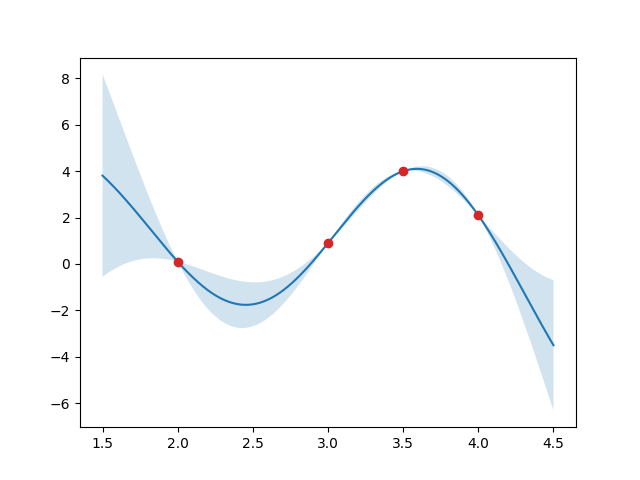
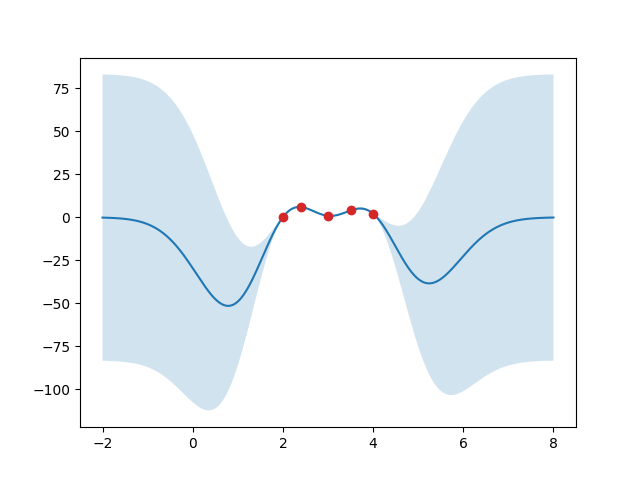
implement the EI and UCB algorithm class

diff --git a/optimization.py b/optimization.py
@@ -1,0 +1,121 @@
+#!/usr/bin/env python3
+
+import os
+import numpy as np
+from scipy.stats import norm
+from gp import ZeroGProcess
+
+
+class UpperConfidenceBound(ZeroGProcess):
+    """
+    class UpperConfidenceBound: 1. construct UCB auxillary function
+                                2. find maximum point of UCB auxillary function
+    """
+    def __init__(self):
+        super(UpperConfidenceBound, self).__init__()  # can use data from parent class
+
+    def aux_func(self, current_point, current_gamma=0.9):
+        """
+        auxillary function: a(x|D_t) = mean(x) + current_gamma * s2(x)
+        """
+        kernel_Cov_mat = self.compute_kernel_cov(self.X, self.theta)
+        kernel_Vec_mat = self.compute_kernel_vec(self.X, current_point, self.theta)
+        inv_kernel_Cov = np.linalg.inv(kernel_Cov_mat)
+
+        s2_currentA = np.matmul(np.transpose(kernel_Vec_mat), inv_kernel_Cov)
+        s2_currentB = np.matmul(s2_currentA, kernel_Vec_mat)
+        s2_current = self.kernel(current_point, current_point) - s2_currentB        
+
+        mean_current = self.compute_mean(current_point)
+        aux_ucb_current = mean_current + current_gamma*s2_current
+
+        return aux_ucb_current[0, 0]
+
+    def find_next_point(self):
+        "find maximum point based on auxillary function"
+        pass 
+
+
+class ExpectedImprovement(ZeroGProcess):
+    """
+    class ExpectedImprovement: 1. construct EI auxillary function 
+                               2. find maximum point of EI auxillary function
+    """
+    def __init__(self):  
+        super(ExpectedImprovement, self).__init__()    # can use data from parent class 
+
+    def aux_func(self, current_point, kessi=0.0, zeroCheck=1e-15):
+        """
+        auxillary function: a(x|D_t) = (y_max - mean(x) - kessi)*F(Z) + sqrt(sigma^2*s2(x))*f(Z)
+        Z = (y_max - mean(x) - kessi) / sqrt(sigma^2*s2(x))
+        """
+        kernel_Cov_mat = self.compute_kernel_cov(self.X, self.theta)
+        kernel_Vec_mat = self.compute_kernel_vec(self.X, current_point, self.theta)
+        inv_kernel_Cov = np.linalg.inv(kernel_Cov_mat)
+
+        s2_currentA = np.matmul(np.transpose(kernel_Vec_mat), inv_kernel_Cov)
+        s2_currentB = np.matmul(s2_currentA, kernel_Vec_mat)
+        s2_current = self.kernel(current_point, current_point) - s2_currentB   
+
+        if s2_current < zeroCheck:
+            aux_ei_current = 0.0
+        else:
+            y_max = max(self.Y)
+            mean_current = self.compute_mean(current_point)
+
+            if self.sigma2 == None:   # sigma2 <= mle of sigma2
+                self.sigma2 = self.compute_mle_sigma2()
+            
+            Z_denom = y_max - mean_current - kessi
+            Z = Z_denom / np.sqrt(s2_current*self.sigma2)
+
+            aux_ei_current = Z_denom*norm.cdf(Z) + np.sqrt(s2_current*self.sigma2)*norm.pdf(Z)
+
+        return aux_ei_current[0, 0]
+
+    def find_next_point(self):
+        "find maximum point based on auxillary function"
+        pass
+
+
+class ShapeTransferBO(ZeroGProcess):
+    """
+    class ShapeTransferBO: 
+    
+    """
+    def __init__(self):
+        super(ZeroGProcess, self).__init__()
+
+
+class BiasCorrectedBO(ZeroGProcess):
+    """
+    class BiasCorrectedBO:
+    
+    """
+    def __init__(self):
+        super(ZeroGProcess, self).__init__()
+
+
+if __name__ == "__main__":
+    # Test UCB 
+    UCB = UpperConfidenceBound()
+    UCB.get_data_from_file("data/experiment_points.tsv")
+    print(UCB.X)
+    print(UCB.Y)
+
+    x = [9]
+    gamma = 0.9
+    print(UCB.aux_func(x, gamma))
+    print("UCB({:.2f}) = {:.2f}".format(x[0], UCB.aux_func(x, gamma)))
+
+    # Test EI
+    EI = ExpectedImprovement()
+    EI.get_data_from_file("data/experiment_points.tsv")
+    print(EI.X)
+    print(EI.Y)
+
+    x1 = [3]
+    kessi = 0.0
+    print("EI({:.2f}) = {:.2f}".format(x1[0], EI.aux_func(x1, kessi)))
+    x2 = [3.5]
+    print("EI({:.2f}) = {:.2f}".format(x2[0], EI.aux_func(x2, kessi)))

diff --git a/gp.py b/gp.py
@@ -1,4 +1,4 @@
-#!/usr/bin/env python3 
+#!/usr/bin/env python3
 
 import os
 import numpy as np
@@ -133,19 +133,24 @@ class ZeroGProcess:
 
         mean_current = self.compute_mean(current_point)
         var_current = self.compute_var(current_point)
-        
+
         lower_bound = mean_current + np.sqrt(var_current)*lower_bound_std
         upper_bound = mean_current + np.sqrt(var_current)*upper_bound_std
 
         return lower_bound, upper_bound
 
-    def plot(self, num_points=100, confidence=0.9):
-        "draw Gaussian Process mean values and confidence interval of lst_points"
+    def plot(self, num_points=100, exp_ratio=1, confidence=0.9):
+        """
+        draw Gaussian Process mean values and confidence interval
+        num_points: number of points evenly distributed [min_x-delta, max_x+delta]
+        confidence: confidence bands with probablity (confidence)
+        exp_ratio: [min_x - exp_ratio*delta, max_x + exp_ratio*delta], delta = max_x - min_x  
+        """
         min_point = min(self.X)[0]
         max_point = max(self.X)[0]
         delta = max_point - min_point
 
-        x_draw = np.linspace(min_point-0.25*delta, max_point+0.25*delta, num_points)
+        x_draw = np.linspace(min_point-exp_ratio*delta, max_point+exp_ratio*delta, num_points)
 
         y_mean = [self.compute_mean([ele]) for ele in x_draw]
         y_conf_int = [self.conf_interval([ele], confidence) for ele in x_draw]
@@ -161,6 +166,10 @@ class ZeroGProcess:
         return 0
 
 
+###### TODO: GProcess with regression components ######
+#class GProcess():
+
+
 if __name__ == "__main__":
     zeroGP = ZeroGProcess()
     zeroGP.get_data_from_file("data/experiment_points.tsv")
@@ -174,4 +183,4 @@ if __name__ == "__main__":
     print(zeroGP.compute_var(x))
     print(zeroGP.conf_interval(x))
     
-    zeroGP.plot(1000)
+    zeroGP.plot(num_points=1000, exp_ratio=2, confidence=0.90)
